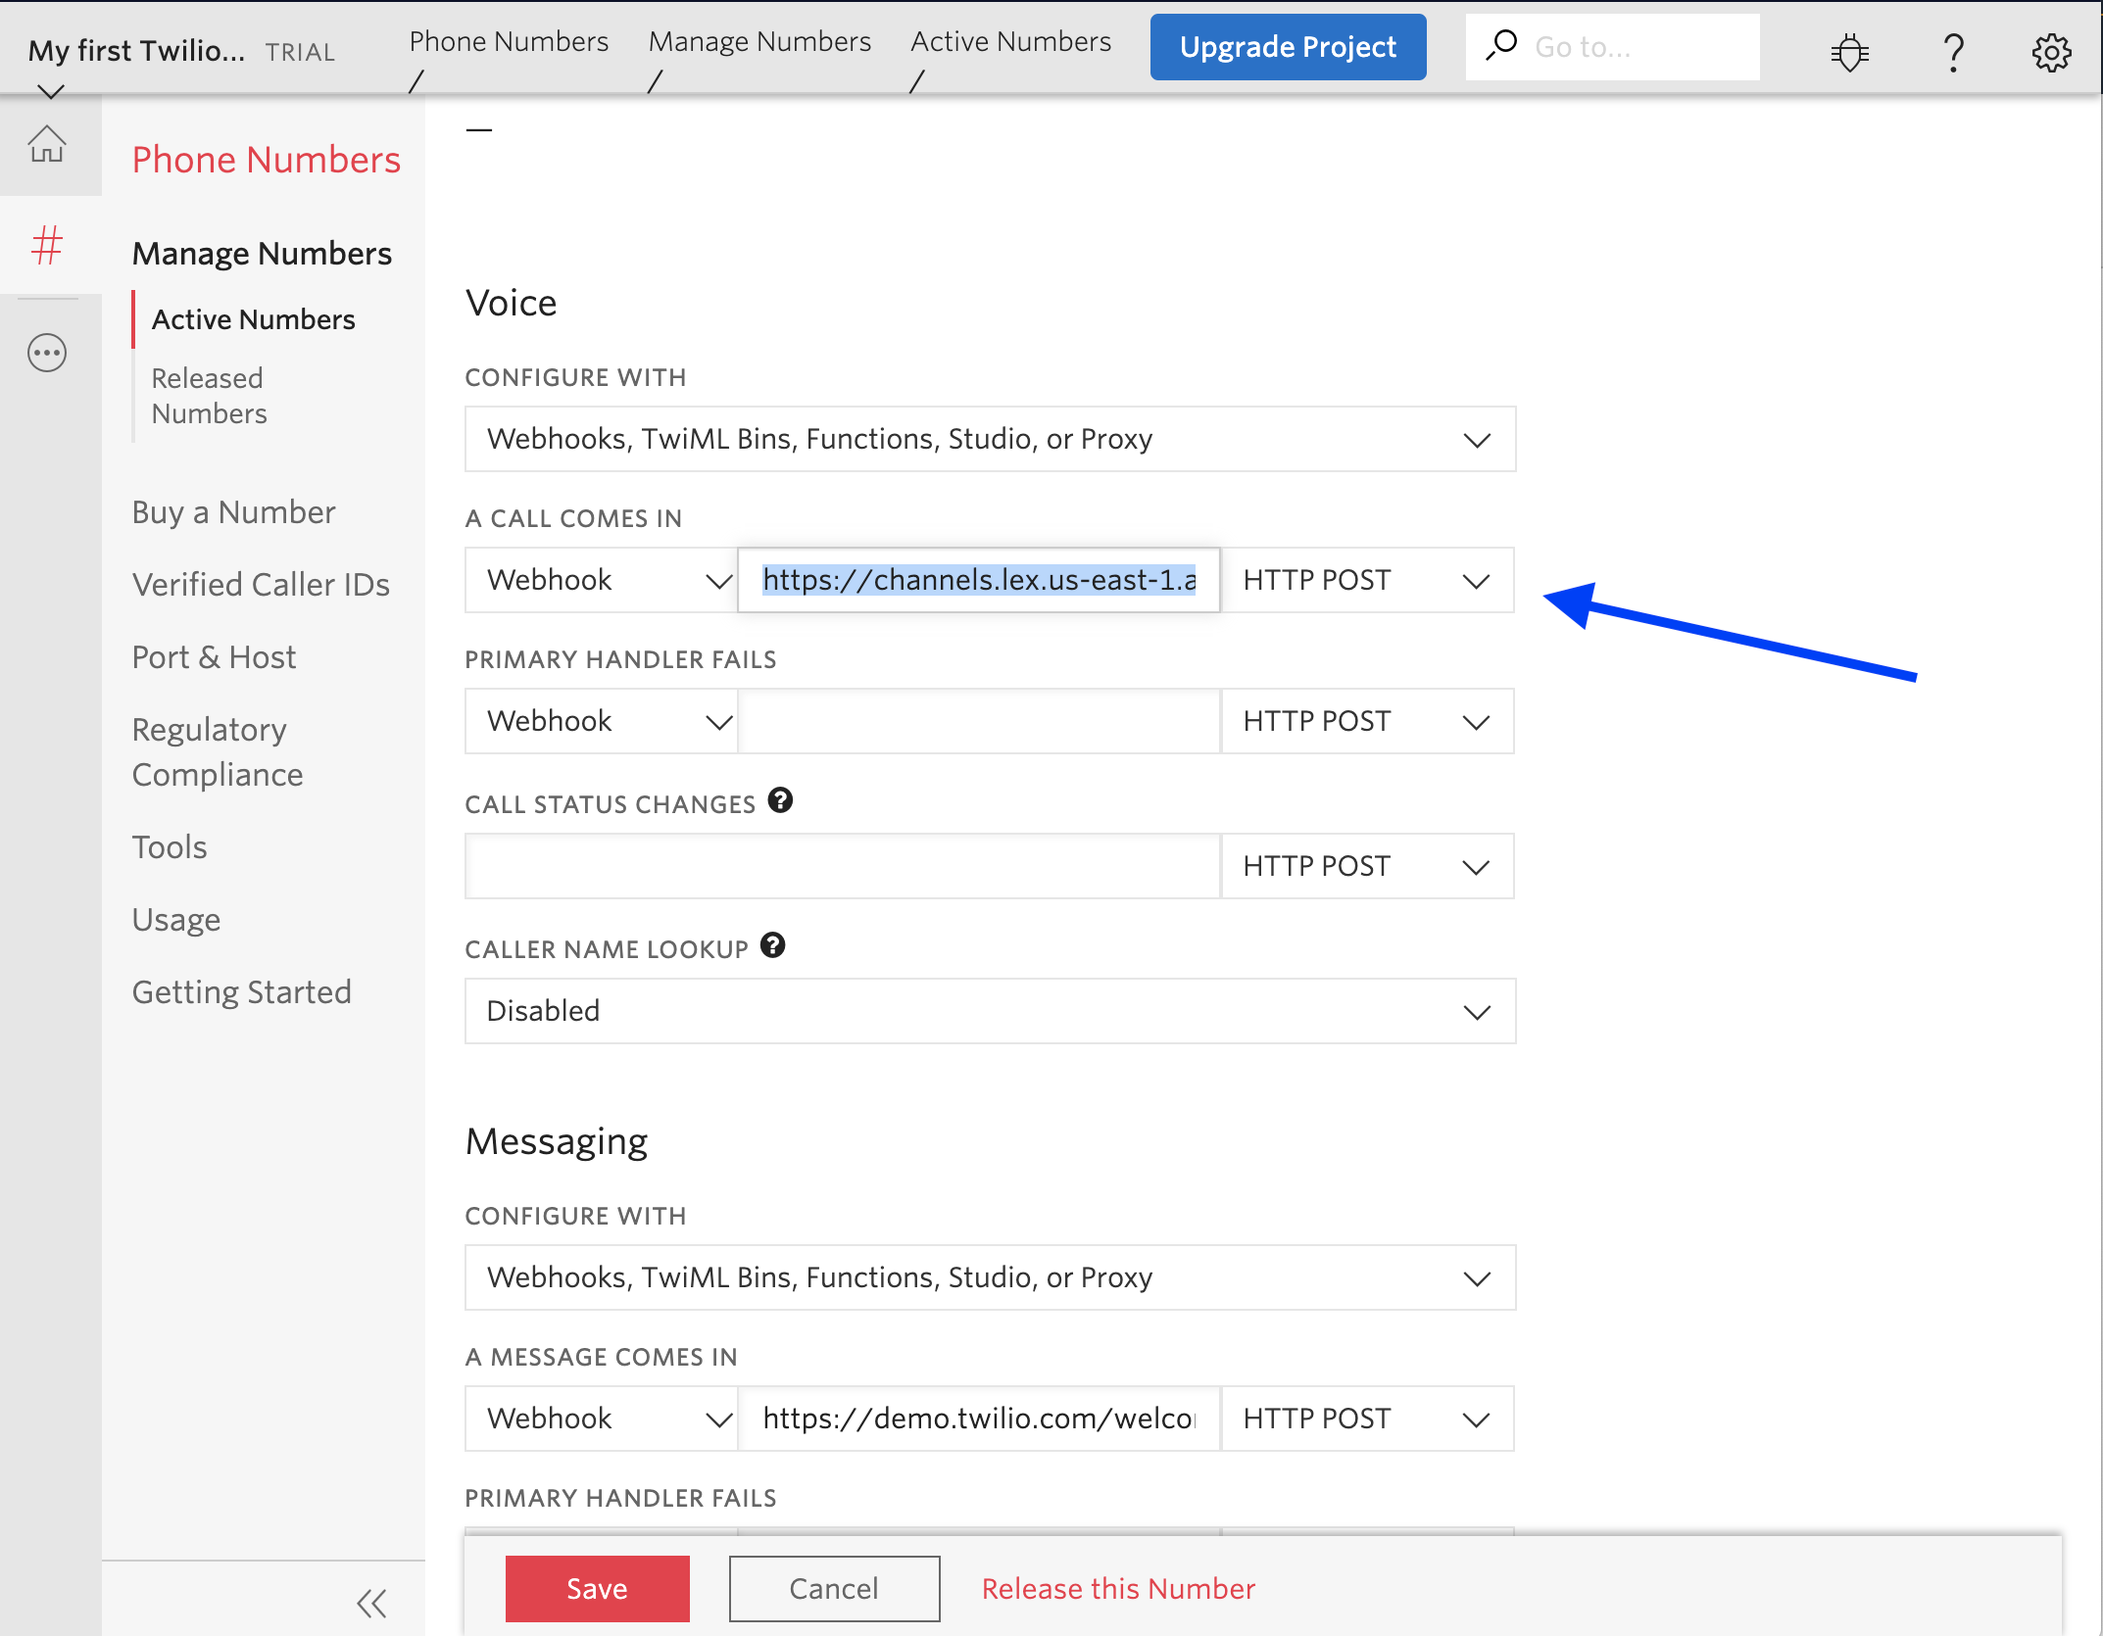
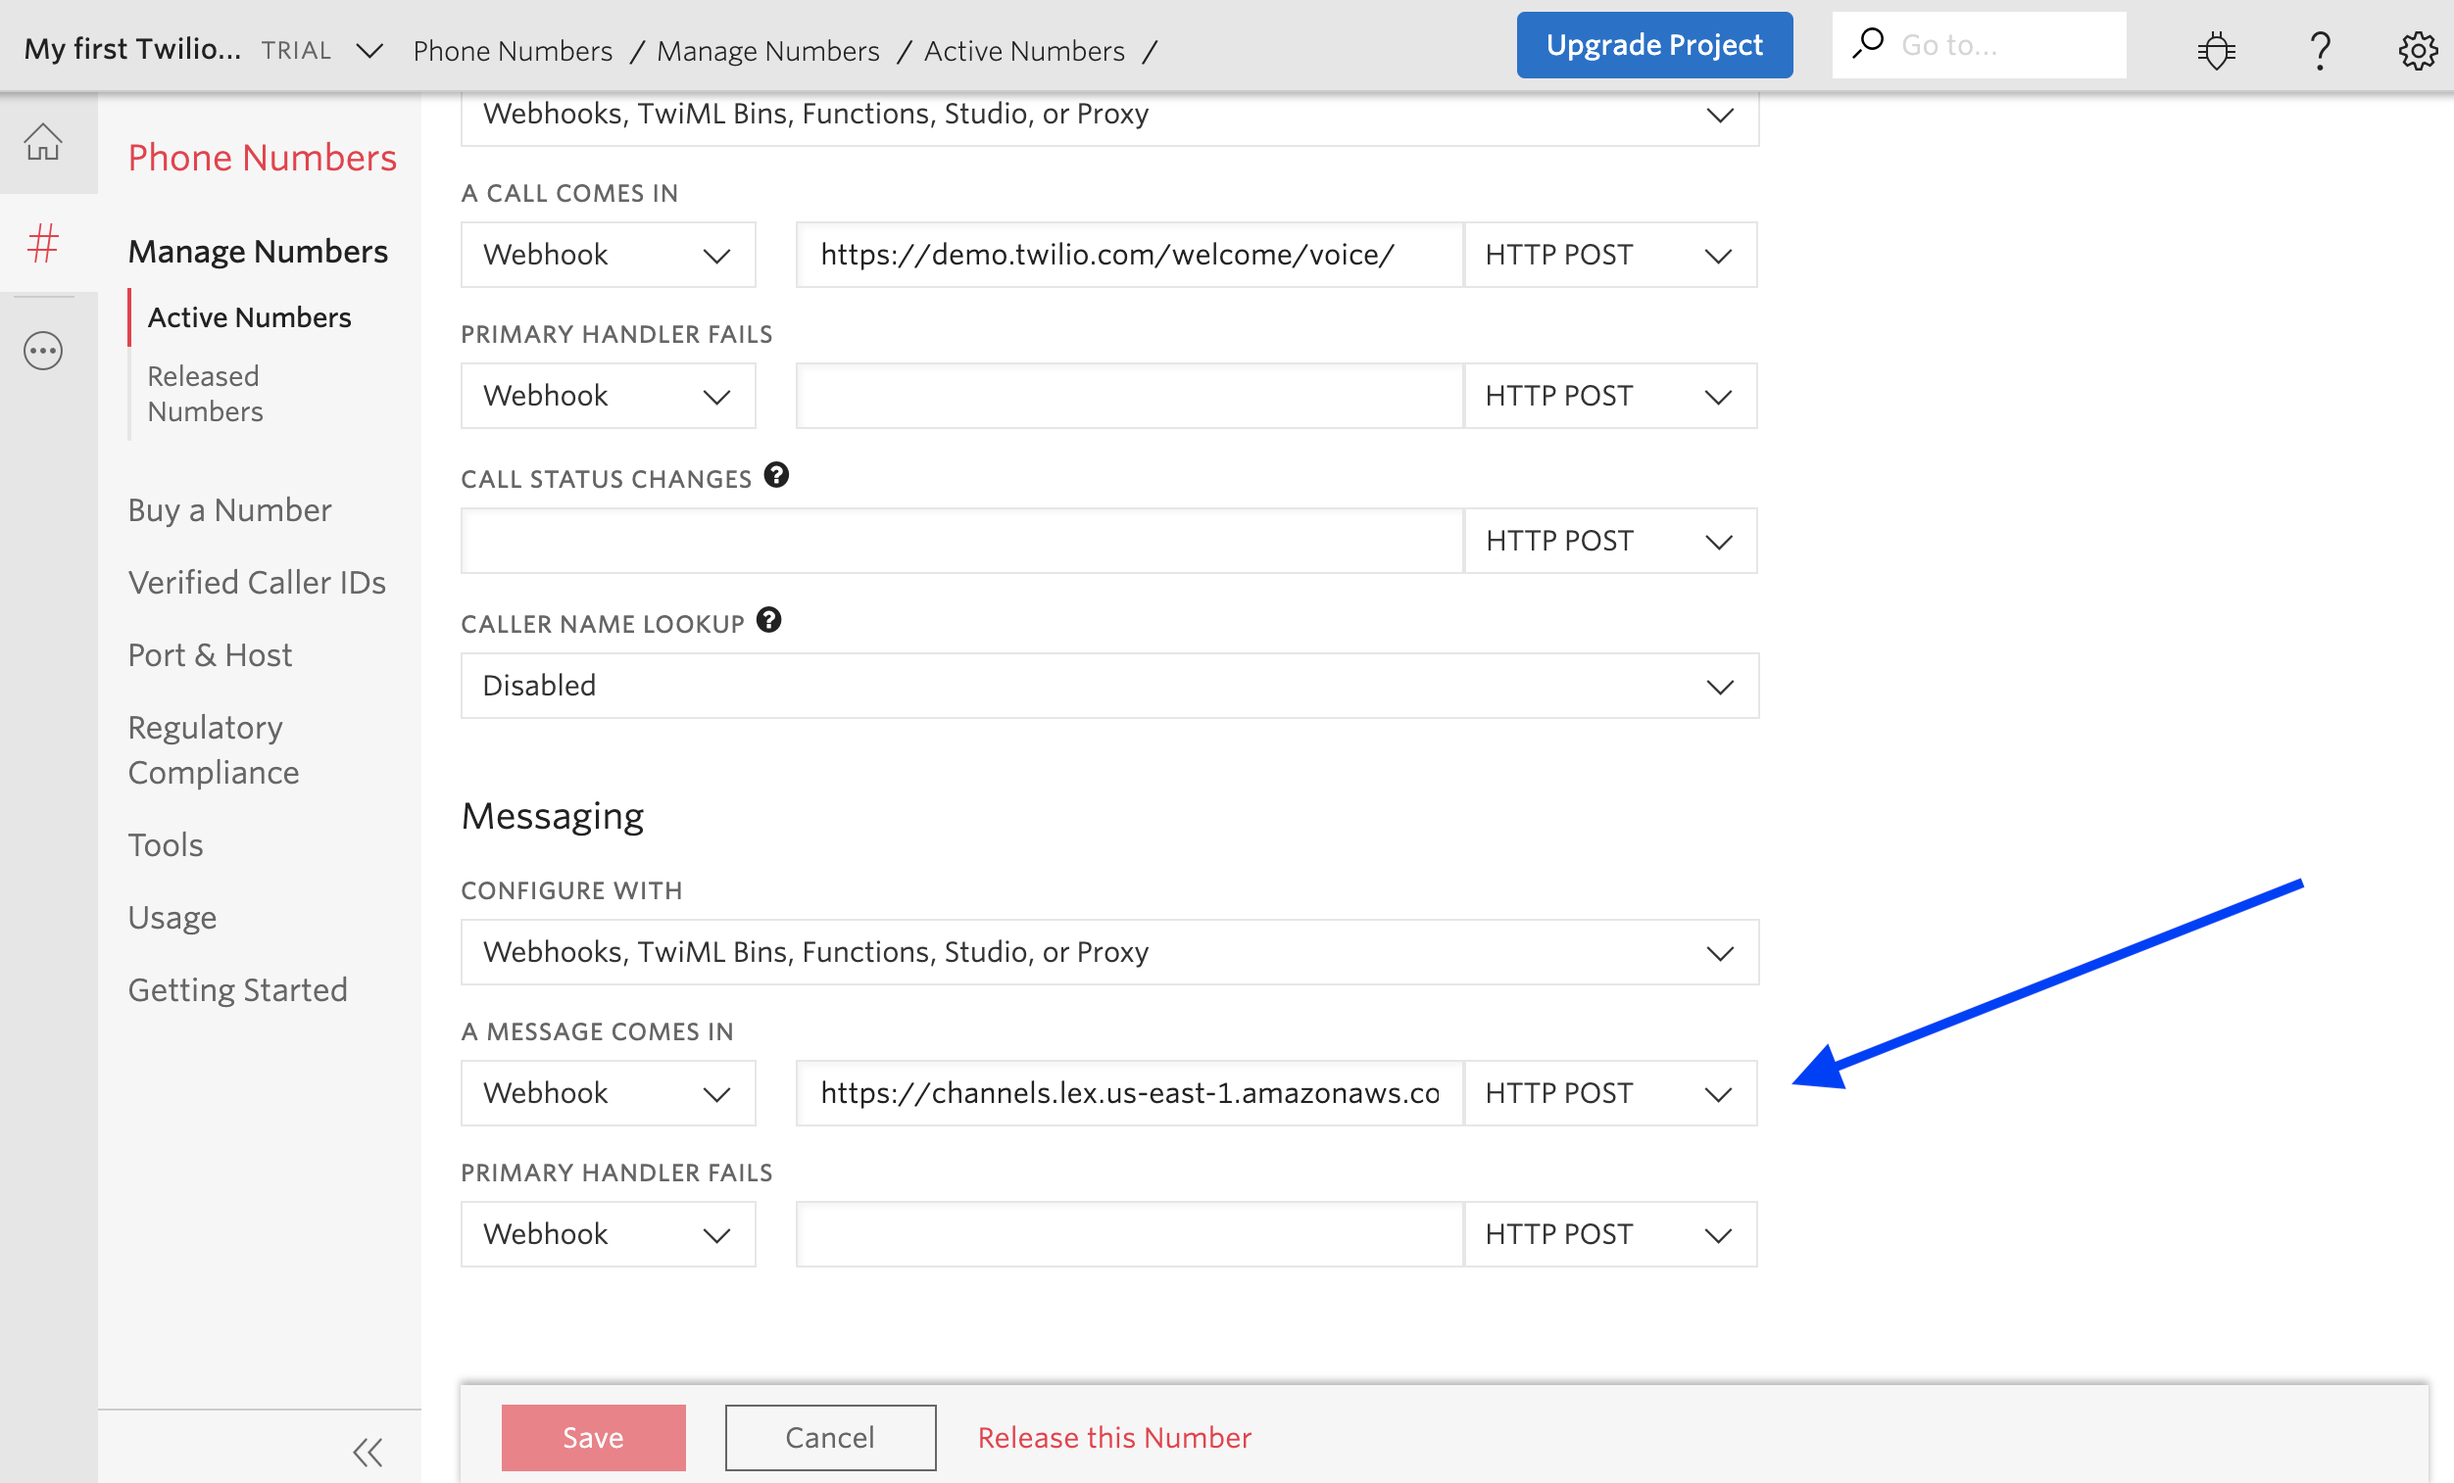
updated default-utterances and policies.

diff --git a/workshops/reinvent2019/readme.md b/workshops/reinvent2019/readme.md
@@ -194,12 +194,12 @@ aws cognito-idp admin-set-user-password --user-pool-id [YourUserPoolIdFromJson] 
 
 ### Checkpoint:
 
-This Checkpoint only applies to step 1A where you are installing QnABot from CloudFormation template. 
+This Checkpoint only applies to step 1A where you are installing QnABot from a CloudFormation template into your own account.
 
 If you are completing step 1B please proceed to running the commands below starting with Elasticsearch Service. 
-You will not need to wait 25 minutes for setup to complete. 
+You will not need to wait 25 minutes for setup to complete as this stack has been pre-installed. 
 
-The CloudFormation stack will take 25 minutes to launch.  Periodically check on the stack creation process in the 
+If you have just launched the CloudFormation stack, it will take 25 minutes to complete.  Periodically check on the stack creation process in the 
 CloudFormation Dashboard. If no stack shows up immediately, click the refresh button at the top right hand corner of 
 your screen.  Your stack should show status **CREATE\_COMPLETE** in roughly 25 minutes. 
 
@@ -212,6 +212,8 @@ explore resources using the AWS console for ElasticSearch, Lex, Lambda, Cognito.
 
 If you have cli access to your AWS account you can also use the following commands to explore the resources 
 being created. Later in Step 3 you'll setup an AWS Cloud9 IDE which you can also use to run these commands.                                           
+
+#### Helpful commands to look at your resources are shown below
 
 ##### Elasticsearch Service
 <pre>
@@ -302,11 +304,11 @@ saying:<pre>Tell me about the sun</pre> The Bot should respond with audio as wel
 
 10) Test out the second question.  
 
-11) Click on Test to bring up the Test dialog in the Designer UI.
+11) Click on The Test tab to bring up the Test area in the Designer UI.
 
 12) Enter a question <pre> How old is the sun </pre>
 
-13) Click on search. Look at the results. Notice the score column. The answer selected by the QnABot will be the answer with highest matching score.
+13) Click on the Search button. Look at the results. Notice the score column. The answer selected by the QnABot will be the answer with highest matching score.
 
     ![QnaBot Test Results ](images/02-score.png)
 
@@ -323,11 +325,15 @@ saying:<pre>Tell me about the sun</pre> The Bot should respond with audio as wel
 comes from QnaBot. QnaBot could not find an acceptable match in the knowledge base managed by elasticsearch. 
 You'll need to add a new question to the knowledge that provides an appropriate answer.
 
-16) The new version of QnABot (2.4.0 and higher) and Lex-Web-Ui (0.14.89) support 
+16) The new version of QnABot (2.4.0 and higher) and Lex-Web-Ui (0.14.8) support 
 default implementations of Thumbs Up, Thumbs Down, and Help. These are loaded as 
 Questions into QnABot. Use the Designer UI Import Menu. Click on Examples/Extensions
 and click on the Load button next to QnaUtility. You'll see several new questions
 that handle Thumbs Up, Thumbs Down, and Help added to the list of Questions. 
+
+    ![Import Menu](images/02-import.png)
+    
+    ![Import Examples](images/02-import-examples.png)
 
     ![Designer Menu](images/02-lex-qnautility-questions.png)
 
@@ -362,8 +368,9 @@ This file contains a set of preconfigured questions.
 Solar Association does not yet have a website and you've been tasked to create one. Lets deploy a simple 
 website with just two files using Amazon S3 to host the website. The two files will be index.html and solar.png. 
 
-We are going to use the [AWS Cloud9 IDE](https://aws.amazon.com/cloud9/ "Cloud9") to assist us. Perform the 
-following to setup a new AWS Cloud9 Environment unless you've this up previously. 
+We are going to use the [AWS Cloud9 IDE](https://aws.amazon.com/cloud9/ "Cloud9") to assist us. 
+
+If you have already setup Cloud9 in Step 1B you can skip these Cloud9 setup instructions.  If not, perform the following to setup a new AWS Cloud9 Environment. 
 
 #### Cloud9 Setup
    
@@ -814,7 +821,7 @@ Back in the Twilio page
 2) Open the Phone Numbers page under the Super Network menu item
 3) Click on your active number
 ![Lab6-twilio-trial-6](images/Lab6-twilio-trial-6.png "Channel Properties")
-4) Scroll down and file in the AWS endpoint url as the WebHook for incoming calls
+4) Scroll down and file in the AWS endpoint url as the WebHook for Messaging
 ![Lab6-twilio-trial-7](images/Lab6-twilio-trial-7.png "WebHook")
 5) Click on Save
 
